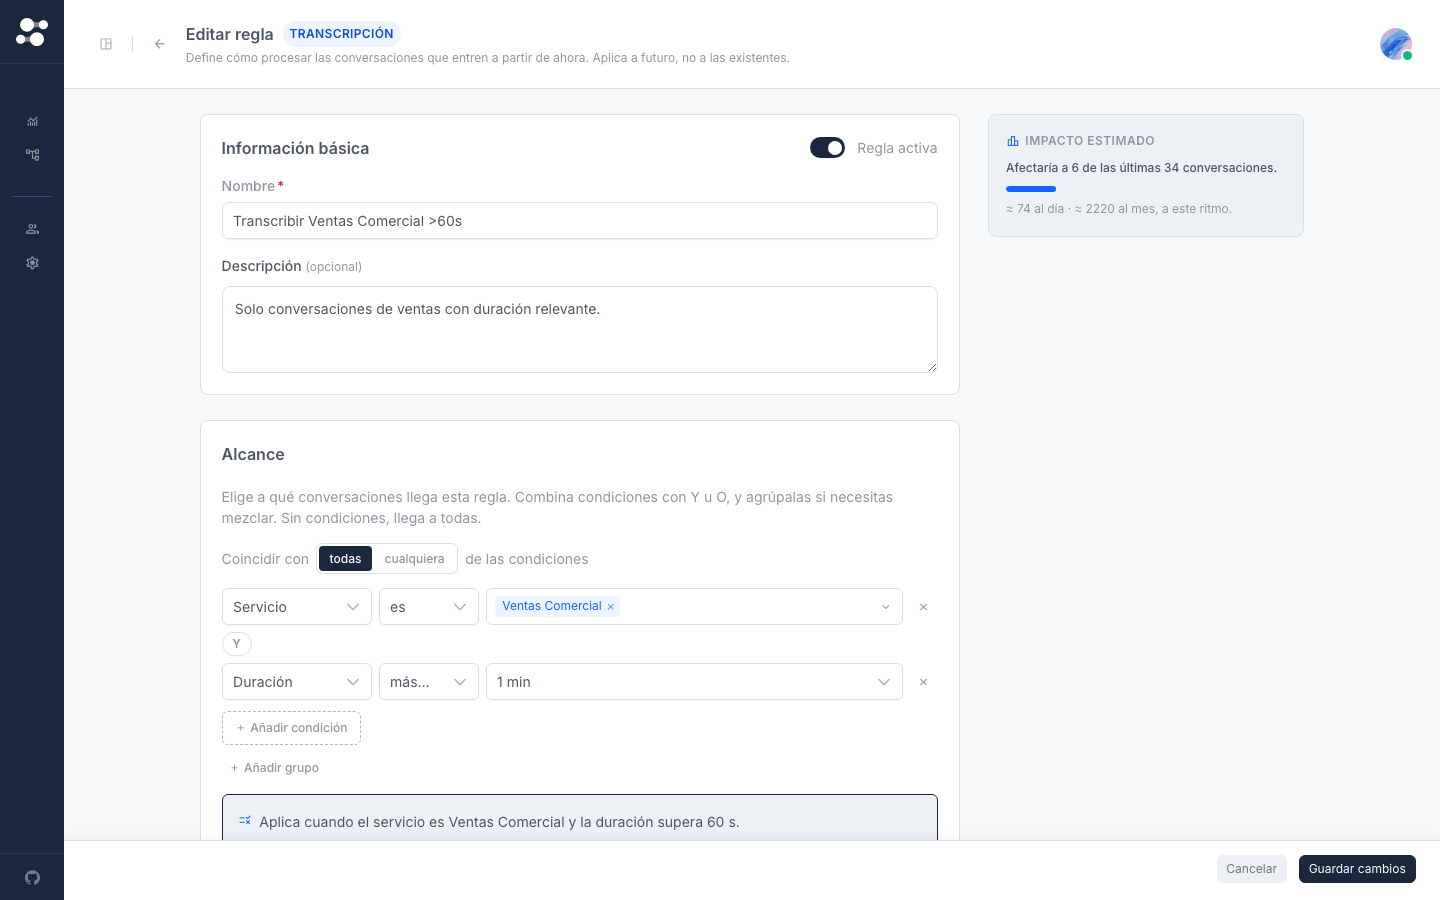
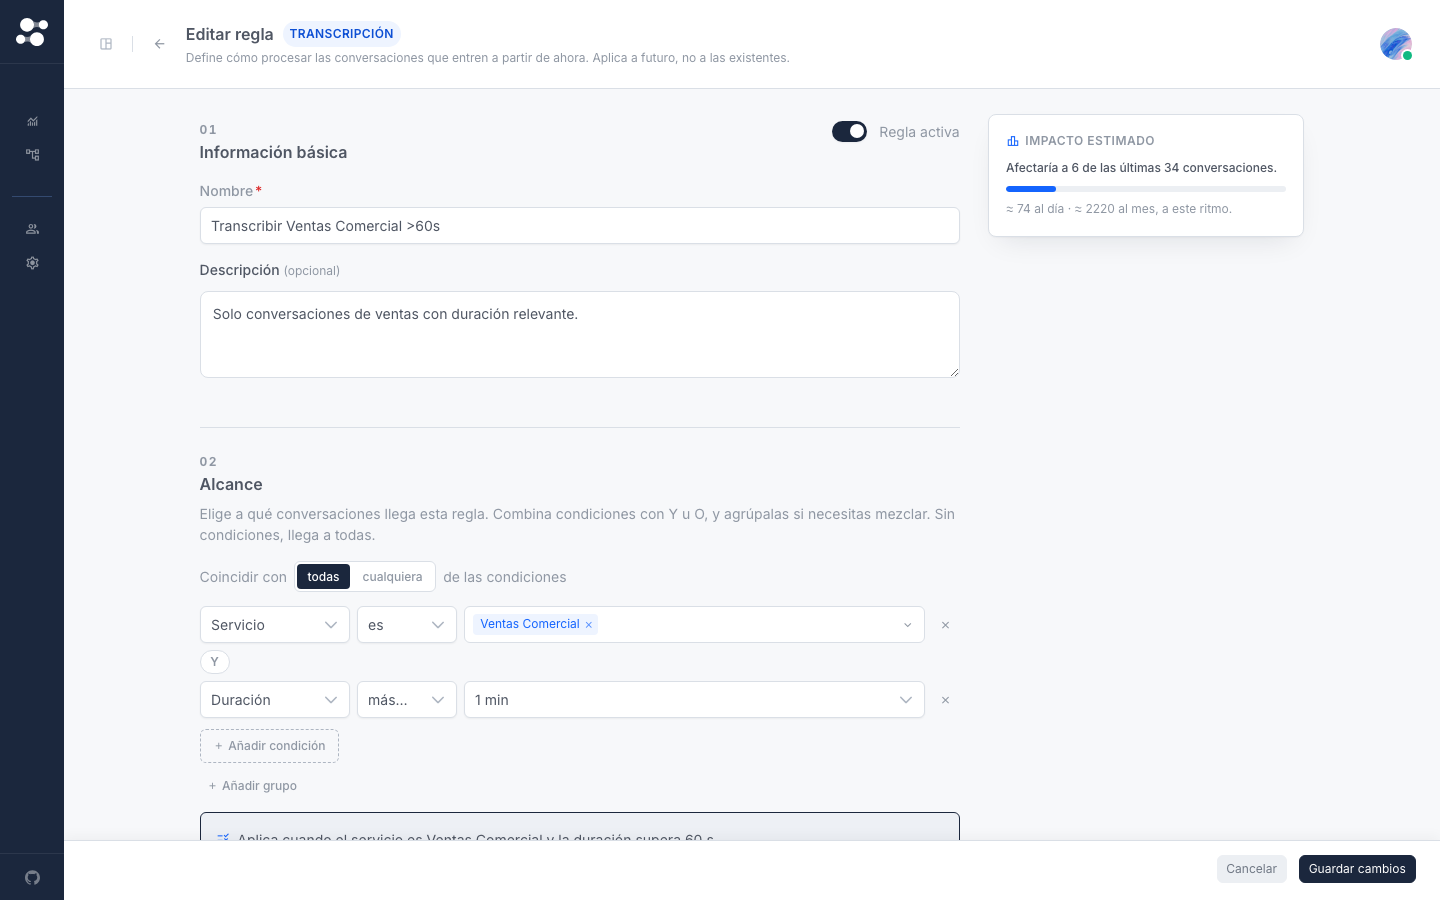
feat(reglas): moderniza el constructor — des-encajonado + jerarquía + motion
Las 3 secciones del rule-builder dejan de ser tarjetas blancas anidadas sobre
slate-50 y pasan a una sola hoja aireada: separadas por hairline + aire, con
índice editorial (eyebrow 01/02/03) sobre título semibold — jerarquía por
peso/color, no por caja. La elevación se reserva al panel de impacto sticky
(único elemento "vivo"). Motion sutil: revelado escalonado al cargar (respeta
prefers-reduced-motion) + push :active en el back. El badge-caja de IA pasa a
chispa teal inline. Limpia ~100 líneas de SCSS muerto (.scope-*). Re-captura
el "después" del recorrido /reglas.

diff --git a/projects/supervisor/src/app/features/memory/pages/rule-builder/rule-builder-page.component.scss b/projects/supervisor/src/app/features/memory/pages/rule-builder/rule-builder-page.component.scss
@@ -39,6 +39,11 @@
       outline: 2px solid var(--sc-color-sky-500);
       outline-offset: 2px;
     }
+
+    /* Motion sutil: push al pulsar. */
+    &:active {
+      transform: translateY(1px);
+    }
   }
 
   &__headline {
@@ -146,15 +151,20 @@
     padding: var(--sc-spacing-1) var(--sc-spacing-1-75) var(--sc-spacing-1-25);
   }
 
-  /* Panel de impacto (vertical) en el aside derecho. */
+  /* Panel de impacto (vertical) en el aside derecho. Es el ÚNICO elemento elevado
+   * de la página: el formulario va des-encajonado (plano) y la sombra señala que
+   * este panel está "vivo" (se recalcula con cada condición). */
   &__impact {
     display: flex;
     flex-direction: column;
     gap: var(--sc-spacing-0-625);
     padding: var(--sc-spacing-1-25);
-    background: var(--sc-bg-subtle);
+    background: var(--sc-bg-surface);
     border: 1px solid var(--sc-border-default);
     border-radius: var(--sc-radius-lg);
+    box-shadow:
+      0 1px 2px rgb(var(--sc-shadow-color-rgb) / 0.04),
+      0 12px 28px -12px rgb(var(--sc-shadow-color-rgb) / 0.12);
     font-size: var(--sc-font-size-100);
     color: var(--sc-text-secondary);
   }
@@ -333,31 +343,6 @@
     }
   }
 
-  &__ai-head {
-    display: flex;
-    align-items: flex-start;
-    gap: var(--sc-spacing-0-875);
-
-    h2 {
-      margin: 0;
-      font-size: var(--sc-font-size-300);
-      font-weight: 600;
-      color: var(--sc-text-primary);
-    }
-  }
-
-  &__ai-badge {
-    display: inline-flex;
-    align-items: center;
-    justify-content: center;
-    width: 32px;
-    height: 32px;
-    border-radius: var(--sc-radius-200);
-    background: var(--sc-color-teal-100);
-    color: var(--sc-color-teal-600);
-    flex-shrink: 0;
-  }
-
   /* Reveal del contenido AI: grid-template-rows 0fr→1fr expande suave (sin pop). */
   &__ai-reveal {
     display: grid;
@@ -383,7 +368,6 @@
     flex-wrap: wrap;
     gap: var(--sc-spacing-0-5);
     margin-top: var(--sc-spacing-0-875);
-    padding-left: 48px;
   }
 
   &__ai-chip {
@@ -400,7 +384,6 @@
   /* S49 §10 #13 — Selector Categorías IA (solo type=classification) */
   &__ai-categories {
     margin-top: var(--sc-spacing-1-125);
-    padding-left: 48px;
     display: flex;
     flex-direction: column;
     gap: var(--sc-spacing-0-5);
@@ -472,34 +455,77 @@
   }
 }
 
+/* ─── Secciones DES-ENCAJONADAS ───
+ * Antes: 3 tarjetas blancas anidadas sobre slate-50 (pesadas, "formulario 2018").
+ * Ahora: una sola hoja aireada; las secciones se separan por un hairline + aire,
+ * con un índice editorial (eyebrow) sobre el título semibold. Jerarquía por
+ * peso/color, no por caja. La elevación se reserva al panel de impacto sticky. */
 .rule-block {
-  background: var(--sc-bg-surface);
-  border: 1px solid var(--sc-border-default);
-  border-radius: var(--sc-radius-300);
-  padding: var(--sc-spacing-1-5);
   display: flex;
   flex-direction: column;
   gap: var(--sc-spacing-1-125);
+  padding: var(--sc-spacing-1-75) 0;
+
+  &:first-child {
+    padding-top: var(--sc-spacing-0-5);
+  }
+
+  /* Separador entre secciones: hairline en el aire, no marco de tarjeta. */
+  & + & {
+    border-top: 1px solid var(--sc-border-default);
+  }
 
   &__head {
-    h2 {
-      display: inline-flex;
-      align-items: center;
-      gap: var(--sc-spacing-0-875);
-      margin: 0;
-      font-size: var(--sc-font-size-300);
-      font-weight: 600;
-      color: var(--sc-text-primary);
+    display: flex;
+    align-items: flex-start;
+    justify-content: space-between;
+    gap: var(--sc-spacing-1-125);
+  }
 
-      sc-icon {
-        color: var(--sc-text-secondary);
-      }
+  /* Eyebrow (índice) apilado sobre el título. */
+  &__heading {
+    flex: 1 1 auto;
+    display: flex;
+    flex-direction: column;
+    gap: var(--sc-spacing-0-125);
+    min-width: 0;
+  }
+
+  &__eyebrow {
+    font-size: var(--sc-font-size-50);
+    font-weight: var(--sc-font-weight-bold);
+    letter-spacing: 0.12em;
+    font-variant-numeric: tabular-nums;
+    color: var(--sc-text-secondary);
+  }
+
+  &__head h2 {
+    display: inline-flex;
+    align-items: center;
+    gap: var(--sc-spacing-0-5);
+    margin: 0;
+    font-size: var(--sc-font-size-300);
+    line-height: var(--sc-line-height-300);
+    font-weight: var(--sc-font-weight-semibold);
+    color: var(--sc-text-primary);
+
+    sc-icon {
+      color: var(--sc-text-secondary);
     }
   }
 
+  /* Identidad IA: chispa teal inline en el título (sustituye al badge-caja). */
+  &__ai-spark {
+    display: inline-flex;
+    align-items: center;
+    justify-content: center;
+    color: var(--sc-color-teal-600);
+  }
+
   &__desc {
-    margin: 4px 0 0 0;
+    margin: var(--sc-spacing-0-375) 0 0 0;
     font-size: var(--sc-font-size-200);
+    line-height: 1.5;
     color: var(--sc-text-secondary);
   }
 
@@ -507,9 +533,9 @@
     display: inline-flex;
     align-items: center;
     gap: var(--sc-spacing-0-875);
+    flex-shrink: 0;
     font-size: var(--sc-font-size-200);
     color: var(--sc-text-secondary);
-    margin-left: auto;
 
     label {
       cursor: pointer;
@@ -523,108 +549,30 @@
   }
 }
 
-.rule-block__head {
-  display: flex;
-  align-items: center;
-  justify-content: space-between;
-  gap: var(--sc-spacing-1-125);
-}
-
-/* ─── Bloque Alcance (3 dimensiones AND con conector "Y") ─── */
-
-.scope-dim {
-  display: flex;
-  flex-direction: column;
-  gap: var(--sc-spacing-0-875);
-  padding: var(--sc-spacing-1-125);
-  background: var(--sc-color-slate-50);
-  border-radius: var(--sc-radius-200);
-  border: 1px solid var(--sc-border-default);
-
-  &__head {
-    display: flex;
-    align-items: flex-start;
-    justify-content: space-between;
-    gap: var(--sc-spacing-0-875);
-
-    h3 {
-      margin: 0;
-      font-size: var(--sc-font-size-200);
-      font-weight: 600;
-      color: var(--sc-text-primary);
-    }
+/* Motion sutil: las secciones entran escaladas en cascada al cargar. Solo si el
+ * usuario no pidió reducir movimiento (densidad app: corto y discreto). */
+@media (prefers-reduced-motion: no-preference) {
+  .rule-block {
+    animation: rule-block-in var(--sc-transition-base) var(--sc-easing-emphasized) both;
   }
-
-  &__source {
-    display: inline-flex;
-    align-items: center;
-    gap: var(--sc-spacing-0-25);
-    margin: 2px 0 0 0;
-    font-size: var(--sc-font-size-50);
-    color: var(--sc-text-secondary);
-
-    sc-icon {
-      color: var(--sc-text-secondary);
-    }
+  .rule-block:nth-child(1) {
+    animation-delay: 30ms;
   }
-
-  &__link {
-    display: inline-flex;
-    align-items: center;
-    gap: var(--sc-spacing-0-25);
-    font-size: var(--sc-font-size-50);
-    color: var(--sc-text-link);
-    text-decoration: none;
-    transition: color 200ms ease-out;
-
-    &:hover {
-      text-decoration: underline;
-    }
+  .rule-block:nth-child(2) {
+    animation-delay: 90ms;
+  }
+  .rule-block:nth-child(3) {
+    animation-delay: 150ms;
   }
 }
 
-.scope-and-connector {
-  display: flex;
-  align-items: center;
-  justify-content: center;
-  position: relative;
-  padding: var(--sc-spacing-0-5) 0;
-
-  span {
-    display: inline-flex;
-    align-items: center;
-    justify-content: center;
-    width: 32px;
-    height: 32px;
-    border-radius: var(--sc-radius-full);
-    background: var(--sc-bg-primary);
-    color: var(--sc-text-on-primary);
-    font-size: var(--sc-font-size-100);
-    font-weight: 700;
-    z-index: 1;
+@keyframes rule-block-in {
+  from {
+    opacity: 0;
+    transform: translateY(8px);
   }
-
-  &::before {
-    content: '';
-    position: absolute;
-    left: 50%;
-    top: 0;
-    bottom: 0;
-    width: 1px;
-    background: var(--sc-border-default);
-    transform: translateX(-50%);
+  to {
+    opacity: 1;
+    transform: none;
   }
-}
-
-.scope-summary {
-  /* Guidelines.md banea `border-left: 3px+ solid color` como accent
-   * stripe. El background tint + radius son suficientes para destacar
-   * que es un resumen derivado (no contenido editable). */
-  padding: var(--sc-spacing-1-125);
-  background: var(--sc-bg-primary-subtle);
-  border: 1px solid var(--sc-bg-primary);
-  border-radius: var(--sc-radius-200);
-  font-size: var(--sc-font-size-200);
-  line-height: 1.5;
-  color: var(--sc-text-primary);
 }

diff --git a/projects/supervisor/src/app/features/memory/pages/rule-builder/rule-builder-page.component.html b/projects/supervisor/src/app/features/memory/pages/rule-builder/rule-builder-page.component.html
@@ -29,7 +29,10 @@
     <!-- Bloque 1: Metadatos -->
     <section class="rule-block">
       <header class="rule-block__head">
-        <h2>{{ 'memory.rules.builder.metadata' | translate }}</h2>
+        <div class="rule-block__heading">
+          <span class="rule-block__eyebrow" aria-hidden="true">01</span>
+          <h2>{{ 'memory.rules.builder.metadata' | translate }}</h2>
+        </div>
         <div class="rule-block__active-toggle">
           <sc-toggleswitch
             [inputId]="'active-toggle'"
@@ -82,9 +85,12 @@
          all/any · AND/OR · grupos). Reemplaza las 3 dimensiones rígidas. -->
     <section class="rule-block">
       <header class="rule-block__head">
-        <h2>{{ 'memory.rules.builder.scope' | translate }}</h2>
+        <div class="rule-block__heading">
+          <span class="rule-block__eyebrow" aria-hidden="true">02</span>
+          <h2>{{ 'memory.rules.builder.scope' | translate }}</h2>
+          <p class="rule-block__desc">{{ 'memory.rules.builder.scope_desc' | translate }}</p>
+        </div>
       </header>
-      <p class="rule-block__desc">{{ 'memory.rules.builder.scope_desc' | translate }}</p>
 
       <sc-rule-condition-builder [(value)]="conditionTree" [revealEmpty]="submitted()" />
     </section>
@@ -96,16 +102,17 @@
            (distinto del campo "Categoría IA" del builder, que FILTRA). -->
       <section class="rule-block rule-block--ai">
         <header class="rule-block__head">
-          <div class="rule-builder__ai-head">
-            <span class="rule-builder__ai-badge">
-              <sc-icon [name]="sparklesIcon" [size]="14" />
-            </span>
-            <div>
-              <h2>{{ 'memory.rules.builder.ai_analysis' | translate }}</h2>
-              <p class="rule-block__desc">
-                {{ 'memory.rules.builder.ai_analysis_desc' | translate }}
-              </p>
-            </div>
+          <div class="rule-block__heading">
+            <span class="rule-block__eyebrow" aria-hidden="true">03</span>
+            <h2>
+              <span class="rule-block__ai-spark" aria-hidden="true">
+                <sc-icon [name]="sparklesIcon" [size]="15" />
+              </span>
+              {{ 'memory.rules.builder.ai_analysis' | translate }}
+            </h2>
+            <p class="rule-block__desc">
+              {{ 'memory.rules.builder.ai_analysis_desc' | translate }}
+            </p>
           </div>
           <sc-toggleswitch
             [inputId]="'ai-toggle'"
